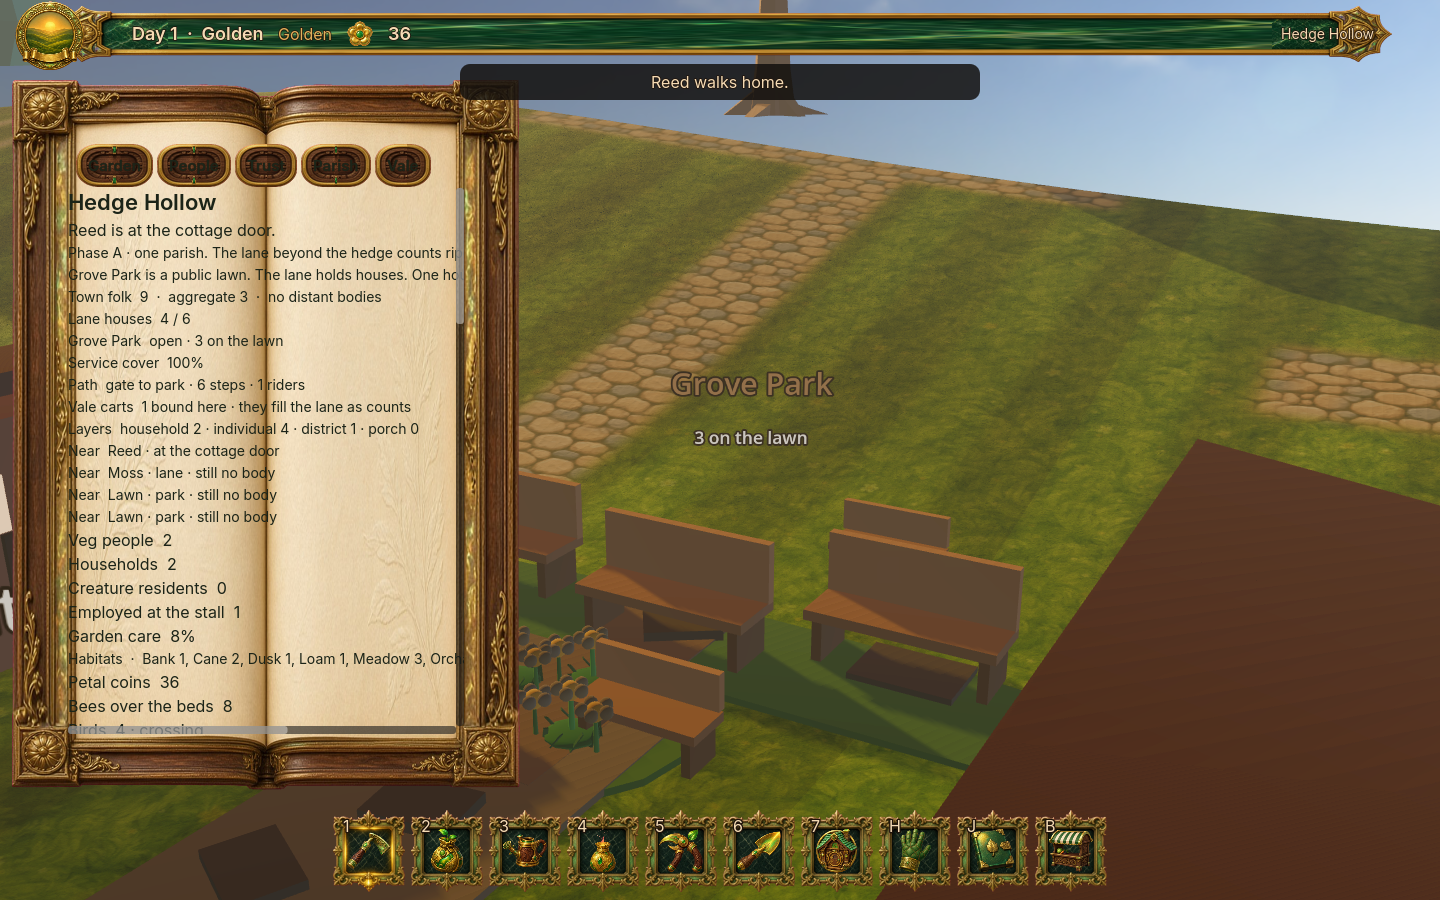
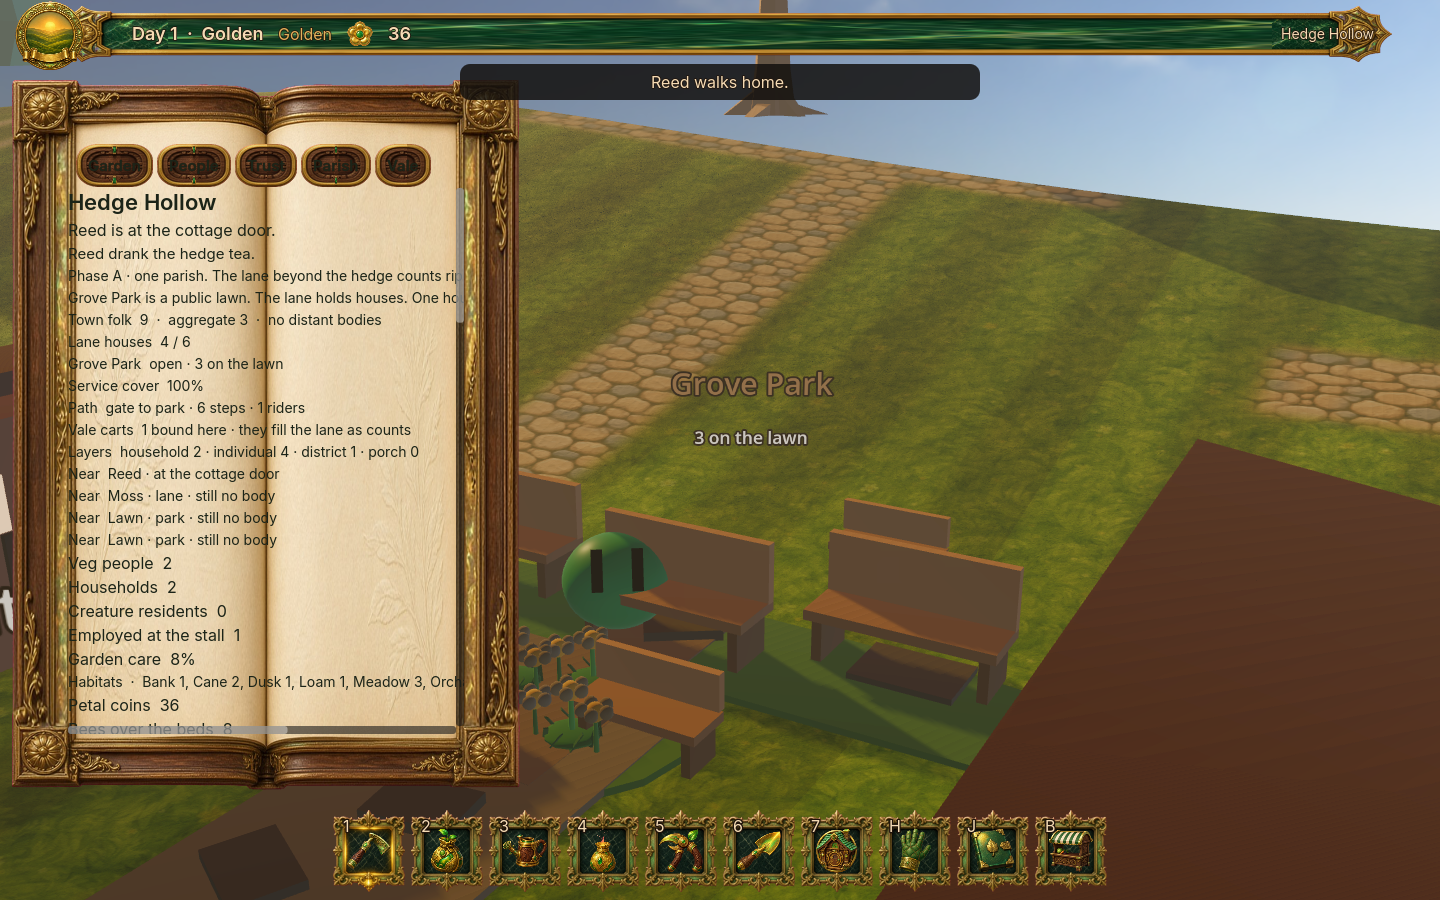
Remember the cottage tea sip after reload.
The place page keeps a line that the household drank the hedge tea. The town shot saves on the lawn and quits if that line is gone.

Changed region(s): [[0.0312, 0.28, 0.3125, 0.8089], [0.375, 0.5911, 0.4688, 0.7156]]

diff --git a/docs/CURRENT_STATE.md b/docs/CURRENT_STATE.md
@@ -24,7 +24,7 @@ Pass 2 from `petal/08-integration` is in this tree: inspect snack, pouch feed, h
 Approved jelly cut-outs (`assets/art/images/PETAL-08-101/`) are the resting card. Hunger, a grab, a poke, or a throw shows a shaded gel icon: one body, two black vertical eyes, a small highlight. The eyes stay unshaded so the sun does not grey them out. The icon tips toward the camera.
 Sign-off CAM_06 still stages its own `SignoffJelly` card.
 Grove Park, once Nessa files it, is a lawn with benches and one worn walk from the lawn to the hedge gate. Lumen and Bram walk through that gate to the grass and stay there. `grove_park.active` stays false.
-When the road rumour is filed, six cottages stand on South Lane between the gate and the lawn. Occupied houses light a window. If the camera is near the gate, the first household (a tomato folk, surname from the lane record) stands at that door. Enter, while the camera is near that cottage, steps into the kitchen. A cup on the table holds hedge tea when the kettle has a pot or a crate of it. T drinks one serving and the cup empties when that was the last. G, once Grove Park is filed, walks that household from the cottage door, through the gate, onto the lawn. G again walks them home through the gate. The lawn spot survives save and load. While they stand on the grass, the Grove Park count includes them. A hungry Bellhelp can stand on that same lawn with both black eyes still showing. The same name is used in the kitchen, on the path, and on the place page. Esc steps back out. The place page says where they are: kitchen, walking, lawn, or cottage door. Farther houses stay counts. `grove_park.active` stays false.
+When the road rumour is filed, six cottages stand on South Lane between the gate and the lawn. Occupied houses light a window. If the camera is near the gate, the first household (a tomato folk, surname from the lane record) stands at that door. Enter, while the camera is near that cottage, steps into the kitchen. A cup on the table holds hedge tea when the kettle has a pot or a crate of it. T drinks one serving and the cup empties when that was the last. G, once Grove Park is filed, walks that household from the cottage door, through the gate, onto the lawn. G again walks them home through the gate. The lawn spot survives save and load. While they stand on the grass, the Grove Park count includes them. A hungry Bellhelp can stand on that same lawn with both black eyes still showing. The same name is used in the kitchen, on the path, and on the place page. Esc steps back out. The place page says where they are: kitchen, walking, lawn, or cottage door. After a sip it also keeps “drank the hedge tea,” including across save and load. Farther houses stay counts. `grove_park.active` stays false.
 
 ## ACTIVE AGENTS
 
@@ -47,7 +47,7 @@ Executive on this branch. No other agent is writing this tree in this run.
 2026-09-29, Godot 4.8-dev6, llvmpipe, `DISPLAY=:1`.
 
 - `./tools/petal_qa.sh` → `PETAL_QA_SCRIPTS_OK` on this tip.
-- `PETAL_TOWN_SHOT=1` → `PETAL_TOWN_SHOT_OK`. The shot quits if the near cottage has no body, if Enter does not open the kitchen, if the cup does not match the kettle, if the window or the cup leaves the frame, if T does not spend one tea, if the walk misses the gate or the lawn, if the walk home misses the gate or the door, if the place page loses the lawn or the door, if reload sends them home early, if the lawn sign ignores them, or if Esc leaves the room open.
+- `PETAL_TOWN_SHOT=1` → `PETAL_TOWN_SHOT_OK`. The shot quits if the near cottage has no body, if Enter does not open the kitchen, if the cup does not match the kettle, if the window or the cup leaves the frame, if T does not spend one tea, if the walk misses the gate or the lawn, if the walk home misses the gate or the door, if the place page loses the lawn or the door, if reload sends them home early, if the lawn sign ignores them, if reload forgets the tea, or if Esc leaves the room open.
 - `PETAL_KETTLE_SHOT=1` → `PETAL_KETTLE_SHOT_OK`. The brew plate quits if the kettle leaves the frame.
 - `PETAL_JELLY_PLAY=1` → `JELLY_PLAY_OK`. Hungry plate shows the gel sphere and both black eyes.
 - `PETAL_RESIDENT_SHOT=1` → `PETAL_RESIDENT_SHOT_OK`. Bram, Lumen, and Bellhelp still read on the lawn.
@@ -81,7 +81,7 @@ Executive on this branch. No other agent is writing this tree in this run.
 
 `docs/screenshots/cottage_home.png` (1440×900). G again brought them back to the cottage door. The line reads “Reed walks home.”
 
-`docs/screenshots/town_parish.png` (1440×900). The place page opens with “Reed is at the cottage door.” The near-row for Reed says “at the cottage door.” Moss and the lawn visitors still read “still no body,” because those records are not this household.
+`docs/screenshots/town_parish.png` (1440×900). After reload the page still says “Reed is at the cottage door” and “Reed drank the hedge tea.” The near-row matches the door. Moss and the lawn visitors still read “still no body.”
 
 ## KNOWN REGRESSIONS
 

diff --git a/docs/CAMPAIGN_BOARD.md b/docs/CAMPAIGN_BOARD.md
@@ -9,7 +9,7 @@ Playable Hedge Hollow on `petal/09-art-rescue`, continued on `cursor/playable-je
 - Tend the four beds. Feed a jelly from a ripe plant or the pouch.
 - Grab, nuzzle, throw. A fed idle jelly shows the approved cut-out. Hunger or a grab shows a shaded gel icon with two black eyes.
 - Stall, jam, tea, journal. Vale map on M. Town page on C.
-- Grove Park opens after the road rumour and Nessa's filing. Lumen and Bram walk through the hedge gate and stay on the grass. South Lane puts six cottages on that path when the rumour is filed. A near camera stands one tomato household at the first door. Enter steps into that kitchen. T drinks one kettle tea. G walks that household through the gate to the lawn, the lawn count includes them, and a hungry Bellhelp can share that grass with both eyes showing. G again walks them home. The place page names where they are, and Reed’s near-row matches. Esc steps back out. Catalog stays `active: false`.
+- Grove Park opens after the road rumour and Nessa's filing. Lumen and Bram walk through the hedge gate and stay on the grass. South Lane puts six cottages on that path when the rumour is filed. A near camera stands one tomato household at the first door. Enter steps into that kitchen. T drinks one kettle tea. G walks that household through the gate to the lawn, the lawn count includes them, and a hungry Bellhelp can share that grass with both eyes showing. G again walks them home. The place page names where they are, keeps the tea sip after reload, and Reed’s near-row matches. Esc steps back out. Catalog stays `active: false`.
 
 ## NEXT
 
